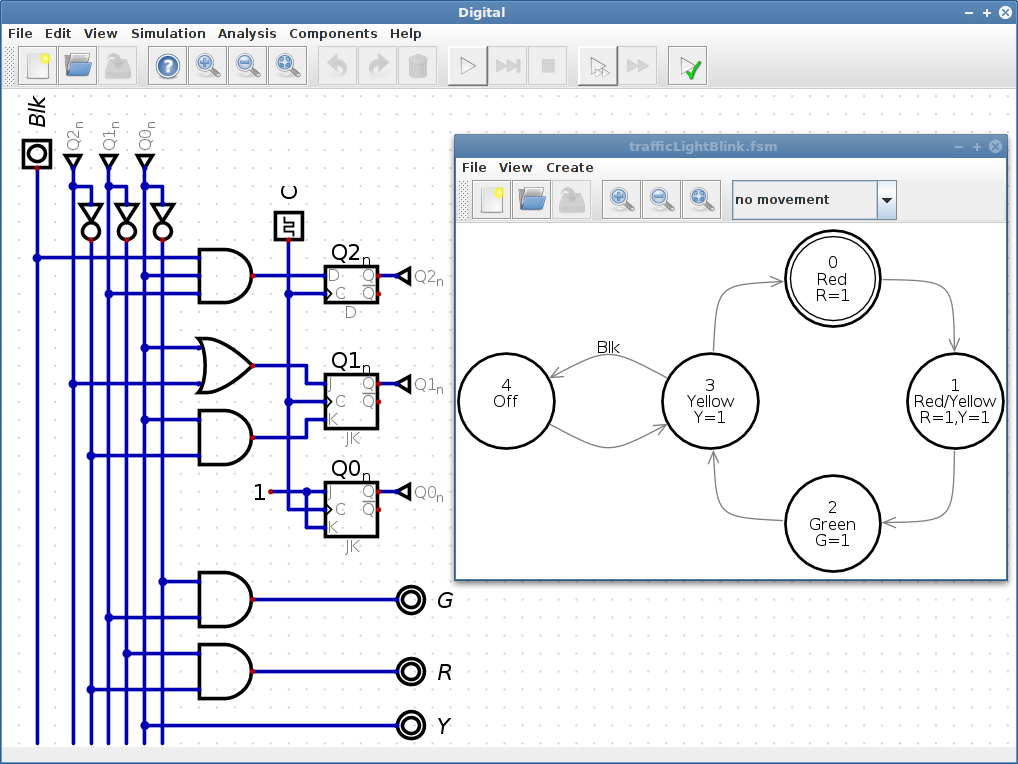
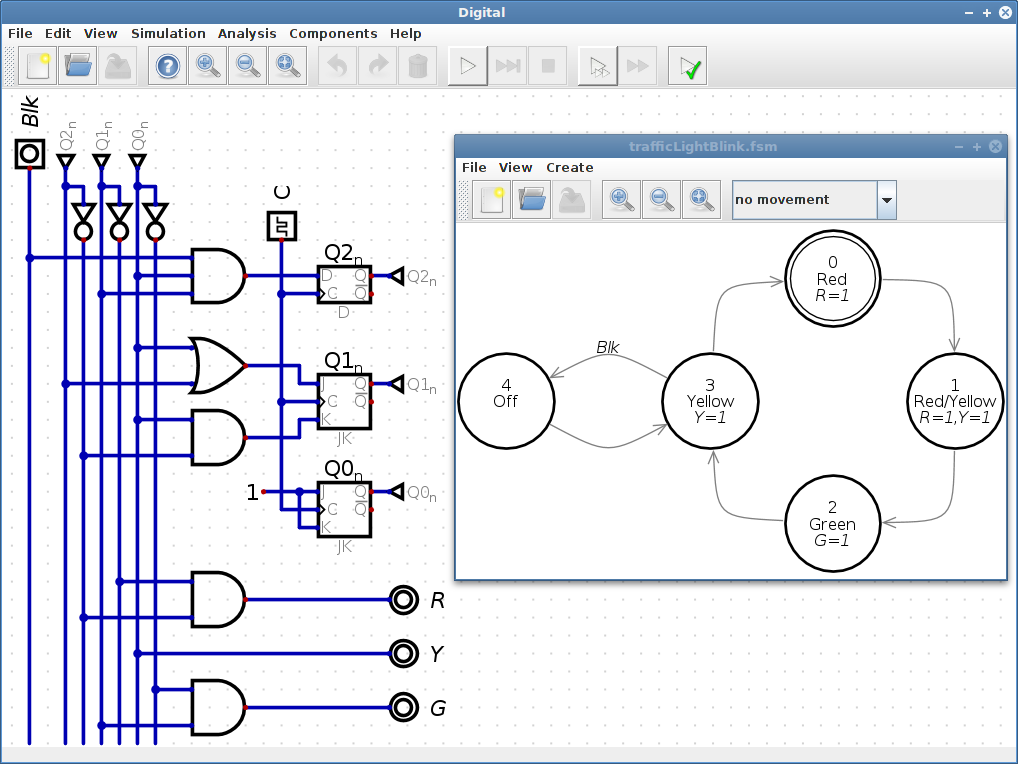
fixed wrong output ordering in screenshot

Changed region(s): [[0.0, 0.1204, 0.4568, 0.9935], [0.3654, 0.7526, 0.4568, 0.8128], [0.5786, 0.4516, 0.609, 0.4817]]

diff --git a/src/test/java/de/neemann/digital/docu/ScreenShots.java b/src/test/java/de/neemann/digital/docu/ScreenShots.java
@@ -5,6 +5,8 @@
  */
 package de.neemann.digital.docu;
 
+import de.neemann.digital.analyse.TruthTable;
+import de.neemann.digital.analyse.TruthTableTableModel;
 import de.neemann.digital.core.element.Keys;
 import de.neemann.digital.fsm.gui.FSMFrame;
 import de.neemann.digital.gui.Main;
@@ -14,6 +16,7 @@ import de.neemann.digital.gui.components.expression.ExpressionDialog;
 import de.neemann.digital.gui.components.graphics.GraphicDialog;
 import de.neemann.digital.gui.components.karnaugh.KarnaughMapDialog;
 import de.neemann.digital.gui.components.table.AllSolutionsDialog;
+import de.neemann.digital.gui.components.table.ReorderOutputs;
 import de.neemann.digital.gui.components.table.TableDialog;
 import de.neemann.digital.gui.components.testing.TestCaseDescriptionDialog;
 import de.neemann.digital.gui.components.testing.ValueTableDialog;
@@ -147,14 +150,18 @@ public class ScreenShots {
                 .press("DOWN", 1)
                 .press("ENTER")
                 .delay(500)
-                .add(new GuiTester.WindowCheck<>(Window.class, (guiTester, window) -> {
-                    if (window instanceof AllSolutionsDialog)
-                        window.dispose();
-                    else
-                        if (window instanceof TableDialog)
-                            ((TableDialog)window).getAllSolutionsDialog().dispose();
+                .add(closeAllSolutionsDialog())
+                .delay(500)
+                .add(new GuiTester.WindowCheck<>(TableDialog.class, (guiTester, tableDialog) -> {
+                    TruthTable tt = tableDialog.getModel().getTable();
+                    ReorderOutputs ro = new ReorderOutputs(tt);
+                    ro.getItems().swap(3,4);
+                    ro.getItems().swap(4,5);
+                    tableDialog.setModel(new TruthTableTableModel(ro.reorder()));
                 }))
-                .add(new GuiTester.WindowCheck<>(TableDialog.class))
+                .delay(500)
+                .add(closeAllSolutionsDialog())
+                .delay(500)
                 .press("F10")
                 .press("RIGHT", 4)
                 .press("DOWN", 2)
@@ -162,7 +169,7 @@ public class ScreenShots {
                 .delay(500)
                 .add(new GuiTester.WindowCheck<>(Main.class,
                         (gt, main) -> {
-                            main.getCircuitComponent().translateCircuit(-300, 0);
+                            main.getCircuitComponent().translateCircuit(-40, 0);
                             mainStatic = main;
                         }))
                 .delay(500)
@@ -187,6 +194,16 @@ public class ScreenShots {
                 .add(new GuiTester.CloseTopMost())
                 .add(new GuiTester.CloseTopMost())
                 .execute();
+    }
+
+    private static GuiTester.WindowCheck<Window> closeAllSolutionsDialog() {
+        return new GuiTester.WindowCheck<>(Window.class, (guiTester, window) -> {
+            if (window instanceof AllSolutionsDialog)
+                window.dispose();
+            else
+                if (window instanceof TableDialog)
+                    ((TableDialog)window).getAllSolutionsDialog().dispose();
+        });
     }
 
     // Set all settings as needed before start this method

diff --git a/src/main/java/de/neemann/digital/gui/components/table/TableDialog.java b/src/main/java/de/neemann/digital/gui/components/table/TableDialog.java
@@ -515,7 +515,19 @@ public class TableDialog extends JDialog {
         }
     }
 
-    void setModel(TruthTableTableModel model) {
+    /**
+     * @return the used table model
+     */
+    public TruthTableTableModel getModel() {
+        return model;
+    }
+
+    /**
+     * Sets the table model
+     *
+     * @param model the model to use
+     */
+    public void setModel(TruthTableTableModel model) {
         this.model = model;
         model.addTableModelListener(new CalculationTableModelListener());
         table.setModel(model);
